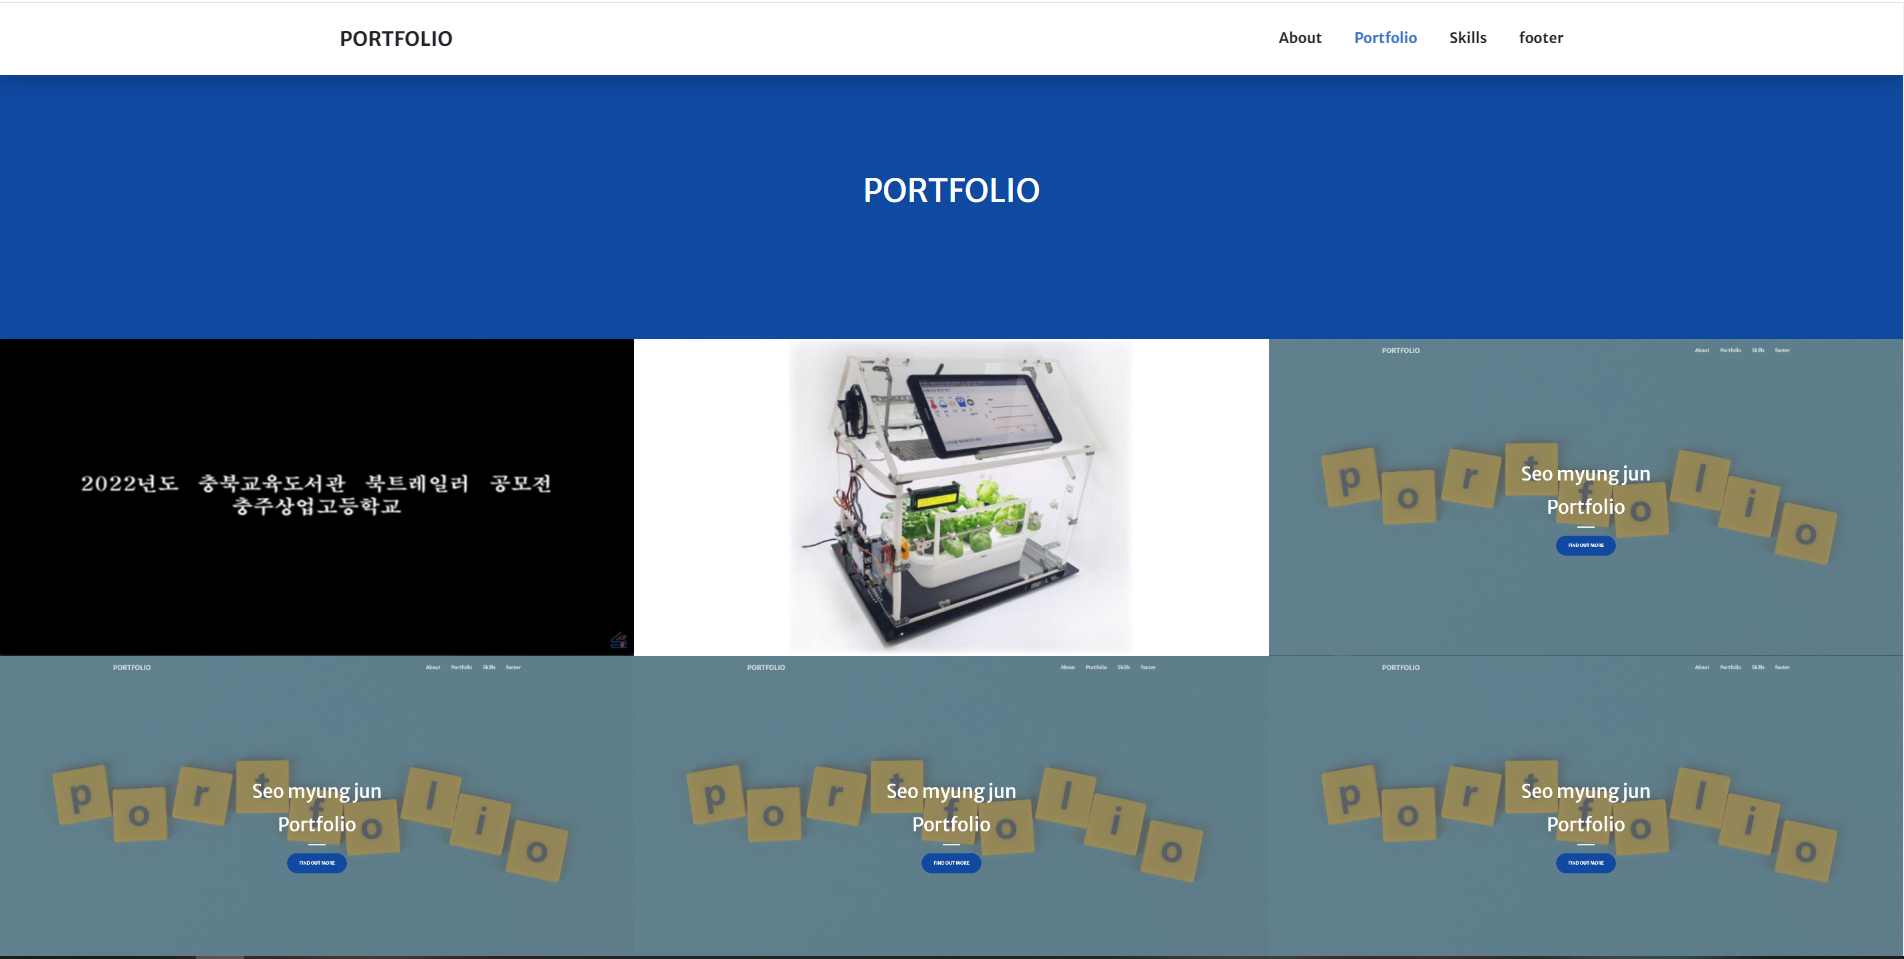
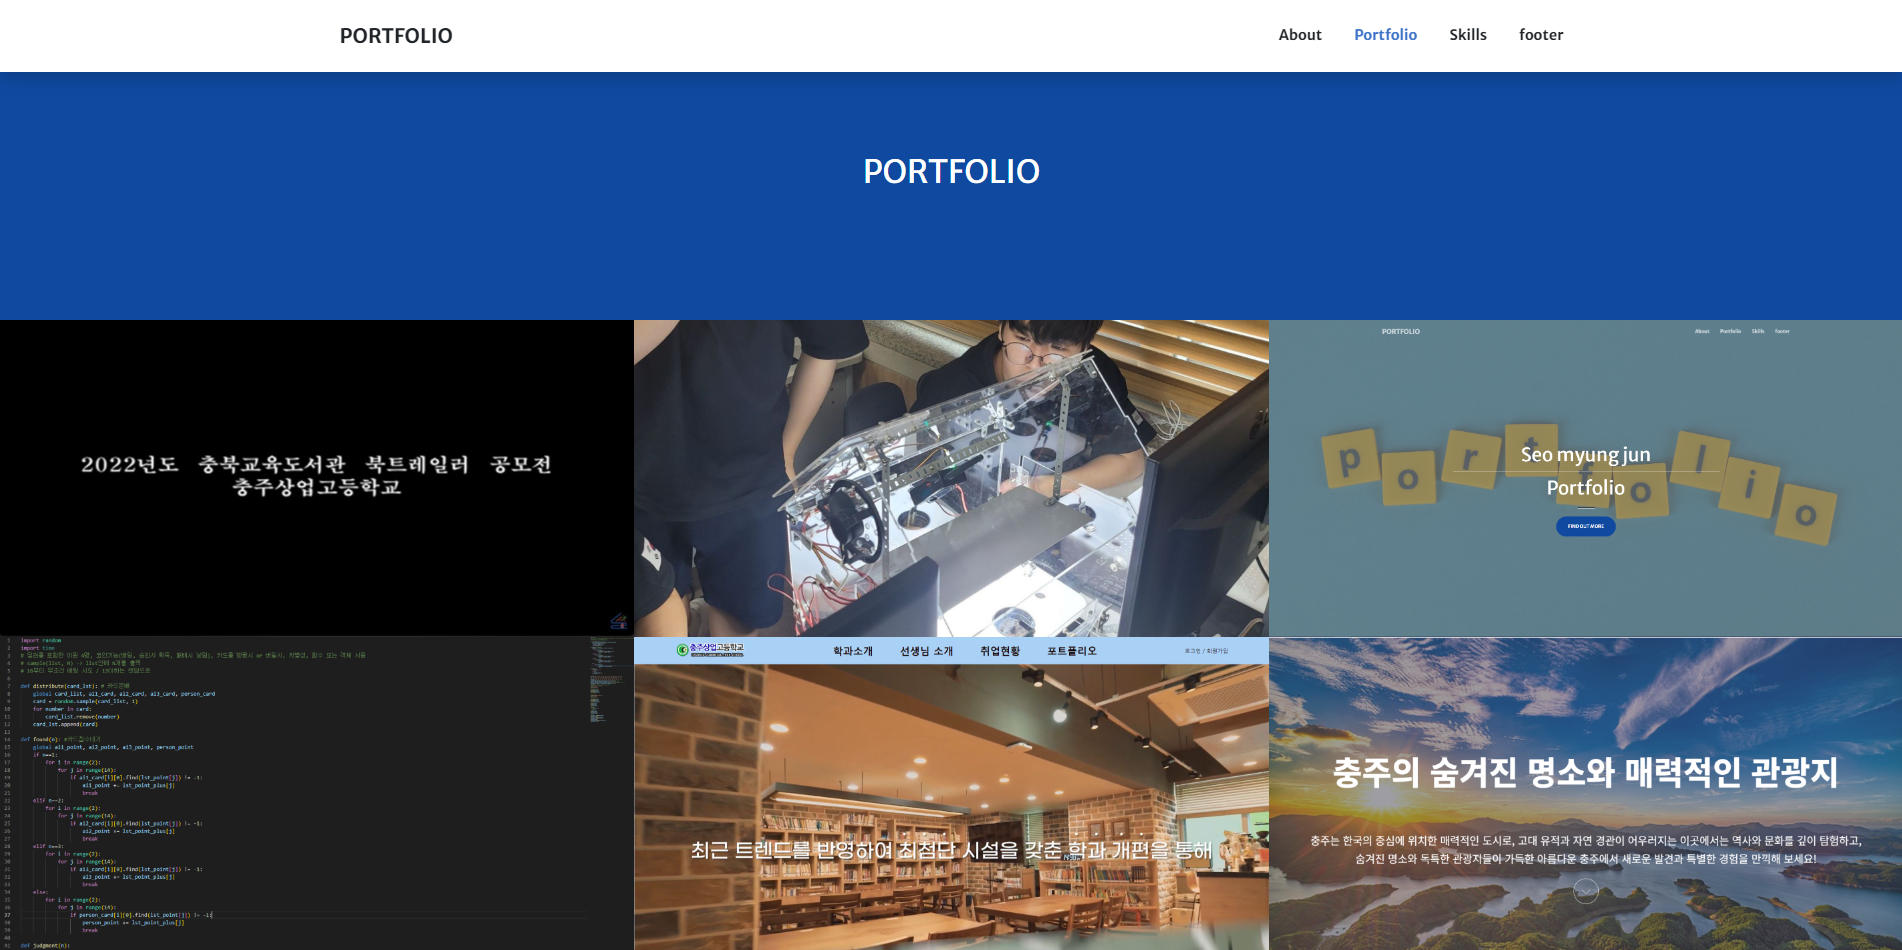
day 7

diff --git a/서명준/포트폴리오 파일/index.html b/서명준/포트폴리오 파일/index.html
@@ -256,7 +256,7 @@
       <footer class="bg-dark py-5">
           <div class="container px-4 px-lg-5">
               <div class="small text-center text-white korean">주소 : 충청북도 충주시 수안보면 수회리로98 <br> 전화번호 : 010-8538-6123 <br>© 2024. seo myung jun. All rights reserved. <br>
-                  <a href="https://github.com/" class="icon1"><i class="bi-github fs-1 "></i></a>
+                  <a href="https://github.com/myungjun06" class="icon1"><i class="bi-github fs-1 "></i></a>
                   <a href="mailto:smjskty@gmail.com" class="icon2"><svg xmlns="http://www.w3.org/2000/svg" width="32" height="32" fill="currentColor" class="bi bi-envelope" viewBox="0 0 16 16">
                     <path d="M0 4a2 2 0 0 1 2-2h12a2 2 0 0 1 2 2v8a2 2 0 0 1-2 2H2a2 2 0 0 1-2-2zm2-1a1 1 0 0 0-1 1v.217l7 4.2 7-4.2V4a1 1 0 0 0-1-1zm13 2.383-4.708 2.825L15 11.105zm-.034 6.876-5.64-3.471L8 9.583l-1.326-.795-5.64 3.47A1 1 0 0 0 2 13h12a1 1 0 0 0 .966-.741M1 11.105l4.708-2.897L1 5.383z"/>
                   </svg></i></a>
@@ -364,38 +364,32 @@
                       <div class="slide">
                         <img
                           class="img-fluid rounded mb-3"
-                          src="assets/img/portfolio/북트1.jpg"
+                          src="assets/img/portfolio/스마트팜 1.jpg"
                           alt="..."
                         />
                       </div>
                       <div class="slide">
                         <img
                           class="img-fluid rounded mb-3"
-                          src="assets/img/portfolio/TurfSky4.png"
+                          src="assets/img/portfolio/스마트팜 2.jpg"
                           alt="..."
                         />
                       </div>
                       <div class="slide">
                         <img
                           class="img-fluid rounded mb-3"
-                          src="assets/img/portfolio/TurfSky1.png"
+                          src="assets/img/portfolio/스마트팜3.jpg"
                           alt="..."
                         />
                       </div>
                       <div class="slide">
                         <img
                           class="img-fluid rounded mb-3"
-                          src="assets/img/portfolio/TurfSky2.png"
+                          src="assets/img/portfolio/스마트팜4.jpg"
                           alt="..."
                         />
                       </div>
-                      <div class="slide">
-                        <img
-                          class="img-fluid rounded mb-3"
-                          src="assets/img/portfolio/TurfSky3.png"
-                          alt="..."
-                        />
-                      </div>
+                      
                     </div>
                     <button class="prev" onclick="moveSlide('portfolioModal2', -1)">
                       &#10094;
